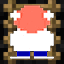
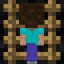
Ajout des colonnes de couleurs (img + VueControleurGyromite) + Score

diff --git a/src/VueControleur/VueControleurGyromite.java b/src/VueControleur/VueControleurGyromite.java
@@ -4,6 +4,7 @@ import java.awt.GridLayout;
 import java.awt.event.KeyAdapter;
 import java.awt.event.KeyEvent;
 import java.awt.image.BufferedImage;
+import java.awt.Color;
 import java.io.File;
 import java.io.IOException;
 import java.util.Observable;
@@ -34,10 +35,15 @@ public class VueControleurGyromite extends JFrame implements Observer {
     private ImageIcon icoHero;
     private ImageIcon icoVide;
     private ImageIcon icoMur;
-    private ImageIcon icoColonne;
     private ImageIcon icoRamassable;
     private ImageIcon icoEchelle;
     private ImageIcon icoHeroEchelle;
+    private ImageIcon icoColonne_rouge_bas;
+    private ImageIcon icoColonne_rouge_corps;
+    private ImageIcon icoColonne_rouge_haut;
+    private ImageIcon icoColonne_bleu_bas;
+    private ImageIcon icoColonne_bleu_corps;
+    private ImageIcon icoColonne_bleu_haut;
 
     private JLabel[][] tabJLabel; // cases graphique (au moment du rafraichissement, chaque case va être associée à une icône, suivant ce qui est présent dans le modèle)
 
@@ -71,11 +77,18 @@ public class VueControleurGyromite extends JFrame implements Observer {
     private void chargerLesIcones() {
         icoHero = chargerIcone("Images/hires/Hector.png");
         icoVide = chargerIcone("Images/hires/Vide.png");
-        icoColonne = chargerIcone("Images/hires/Colonne_corps.png");
         icoMur = chargerIcone("Images/hires/Mur.png");
         icoRamassable = chargerIcone("Images/hires/Bombe.png");
         icoEchelle = chargerIcone("Images/hires/Echelle.png");
         icoHeroEchelle = chargerIcone("Images/hires/HeroSurEchelle.png");
+
+        icoColonne_rouge_bas = chargerIcone("Images/hires/Colonne_rouge_bas.png");
+        icoColonne_rouge_corps = chargerIcone("Images/hires/Colonne_rouge_corps.png");
+        icoColonne_rouge_haut = chargerIcone("Images/hires/Colonne_rouge_haut.png");
+
+        icoColonne_bleu_bas = chargerIcone("Images/hires/Colonne_bleu_bas.png");
+        icoColonne_bleu_corps = chargerIcone("Images/hires/Colonne_bleu_corps.png");
+        icoColonne_bleu_haut = chargerIcone("Images/hires/Colonne_bleu_haut.png");
     }
 
     private ImageIcon chargerIcone(String urlIcone) {
@@ -118,7 +131,7 @@ public class VueControleurGyromite extends JFrame implements Observer {
     private void mettreAJourAffichage() {
 
         for (int x = 0; x < sizeX; x++) {
-            for (int y = 0; y < sizeY-1; y++) {
+            for (int y = 0; y < sizeY; y++) {
                 for(int z = sizeZ-1; z>=0; z--) {
                     if (jeu.getGrille()[x][y][z] instanceof Heros) { // si la grille du modèle contient un Pacman, on associe l'icône Pacman du côté de la vue
                         // System.out.println("Héros !");
@@ -127,17 +140,29 @@ public class VueControleurGyromite extends JFrame implements Observer {
                     } else if (jeu.getGrille()[x][y][z] instanceof Mur) {
                         tabJLabel[x][y].setIcon(icoMur);
                     } else if (jeu.getGrille()[x][y][z] instanceof Colonne) {
-                        tabJLabel[x][y].setIcon(icoColonne);
+                        tabJLabel[x][y].setIcon(icoColonne_rouge_corps);
                     } else if (jeu.getGrille()[x][y][z] instanceof Ramassable) {
                         tabJLabel[x][y].setIcon(icoRamassable);
                     } else if (jeu.getGrille()[x][y][z] instanceof Echelle) {
                         tabJLabel[x][y].setIcon(icoEchelle);
-                    } else if(z==1){
+                    } else if(z==1 && y<10){
                         tabJLabel[x][y].setIcon(icoVide);
+                    } else if(x==0 && y==10){
+                        tabJLabel[0][10].setOpaque(true);
+                        tabJLabel[0][10].setText("<html>Bombes<br/>ramassées</html>");
+                        tabJLabel[0][10].setBackground(Color.BLACK);
+                        tabJLabel[0][10].setForeground(Color.WHITE);
+                    } else if(x==2 && y==10){
+                        tabJLabel[1][10].setOpaque(true);
+                        tabJLabel[1][10].setText(String.valueOf(jeu.cptBombe+" / "+Ramassable.getTotalBombes()));
+                        tabJLabel[1][10].setBackground(Color.BLACK);
+                        tabJLabel[1][10].setForeground(Color.GREEN);
                     }
                 }
             }
         }
+
+
     }
 
     @Override

diff --git a/src/modele/deplacements/RealisateurDeDeplacement.java b/src/modele/deplacements/RealisateurDeDeplacement.java
@@ -10,6 +10,5 @@ Tous les déplacement sont déclenchés par cette classe (gravité, controle cla
 public abstract class RealisateurDeDeplacement {
     protected ArrayList<EntiteDynamique> lstEntitesDynamiques = new ArrayList<EntiteDynamique>();
     protected abstract boolean realiserDeplacement();
-
     public void addEntiteDynamique(EntiteDynamique ed) {lstEntitesDynamiques.add(ed);};
 }

diff --git a/src/modele/plateau/Jeu.java b/src/modele/plateau/Jeu.java
@@ -34,7 +34,7 @@ public class Jeu<Integer> {
 
     private Ordonnanceur ordonnanceur =  new Ordonnanceur( this);
 
-    private int cptBombe = 0;
+    public int cptBombe = 0;
 
     public boolean HerosSurEchelle=false;
 
